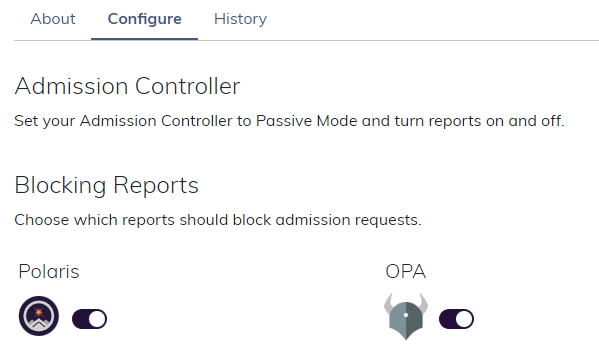
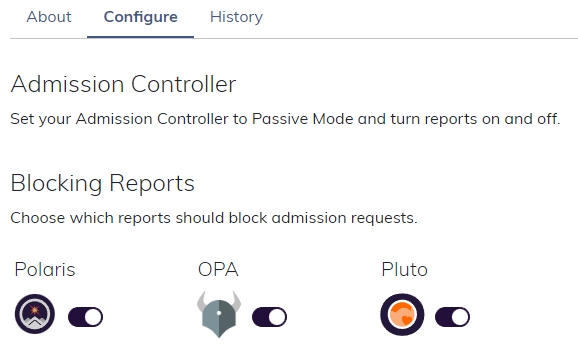
Update release notes for 9.5.0 (#226)
* Update release notes for 9.5.0

* Fix link

diff --git a/docs/release-notes.md b/docs/release-notes.md
@@ -10,6 +10,22 @@ sidebarDepth: 1
 ---
 # Release Notes
 
+## 9.5.0
+### New Design of Vulnerabilities
+We have redesigned the `Vulnerabilities` page in Insights. The new design enables teams to understand risk at a high level
+and address those with the biggest impact. The `All Images` tab allows organizations to see which images are at a higher risk
+while the `All Vulnerabilities` tab helps users determine if they have been impacted by certain vulnerabilities.
+
+### Pluto in Admission Controller
+Pluto has been enabled in the Admission Controller. Admission requests will create low and medium severity Action Items
+if deprecated or removed Kubernetes resources are used. To learn about how to configure reports in the Admission Controller
+visit the [Install Hub and Policies documentation.](/configure/admission/installhub-and-policies)
+
+### Bug Fixes and Improvements
+* `Settings` button in `Repositories` allows easier access to enable/disable Auto-Scan
+* The Action Items table in `Repositories` now has a `File Name` column
+* The top left Cluster dropdown has been fixed on several pages
+
 ## 9.4.0
 ### Bug Fixes and Improvements
 * Passwords for new users require numbers, letters and symbols
@@ -18,7 +34,7 @@ sidebarDepth: 1
 ### Bug Fixes and Improvements
 * Code copy works properly now when selecting `Connect Manually` in `Repositories`
 * Fixed errors in `Efficiency > Workloads` page when charts are empty
-* Fixed Auto Scan toggle in `Repositories`
+* Fixed Auto-Scan toggle in `Repositories`
 
 ## 9.2.0
 ### Bug Fixes and Improvements
@@ -57,7 +73,7 @@ block admission requests or the CI/CD pipeline. Furthermore, users are now able 
 A new Insights CI script is available for our users to use in their CI/CD pipelines. The new 2.0 Insights CI script will now block admission
 requests and CI/CD pipelines according to the values set in the Policy for `Admission` and `CI`.
 Users
-[using the Auto Scan feature](https://insights.docs.fairwinds.com/installation/ci/autoscan/) will automatically use this new script version.
+[using the Auto-Scan feature](https://insights.docs.fairwinds.com/installation/ci/autoscan/) will automatically use this new script version.
 The 2.0 script also defaults to blocking only on Action Items that have `High` or `Critical` severity.
 
 ### Bug Fixes and Improvements

diff --git a/docs/configure/admission/installhub-and-policies.md b/docs/configure/admission/installhub-and-policies.md
@@ -8,6 +8,7 @@ meta:
 The Admission Controller currently runs the following report types:
 * Polaris - checks for security and best practices
 * [OPA](/configure/policy/opa-policy) - apply custom policies to resources
+* Pluto - detects Kubernetes resources that have been deprecated or removed
 
 To enable or disable a particular report:
 1. Visit your organization's `Clusters` page
